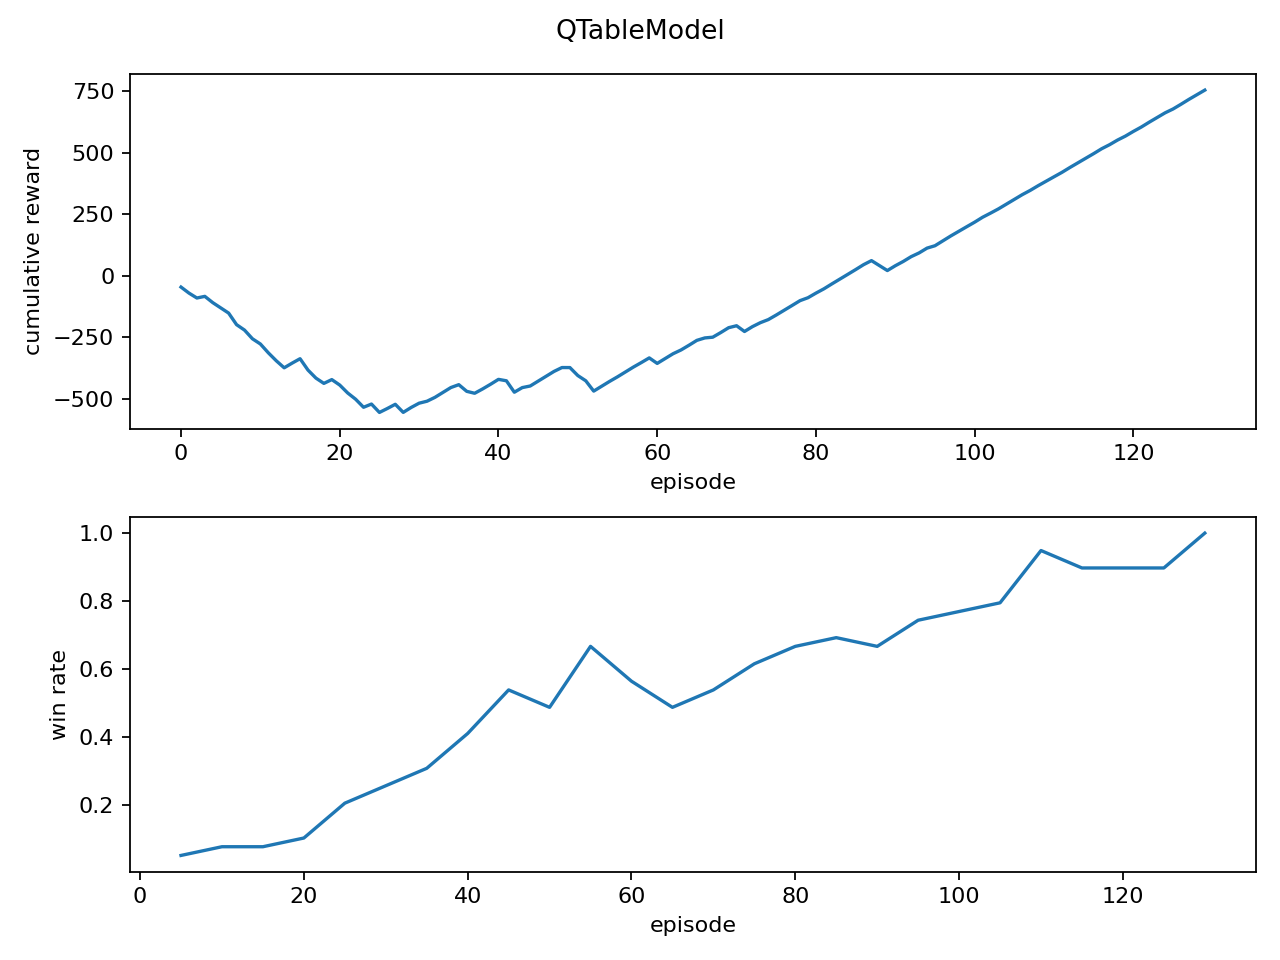
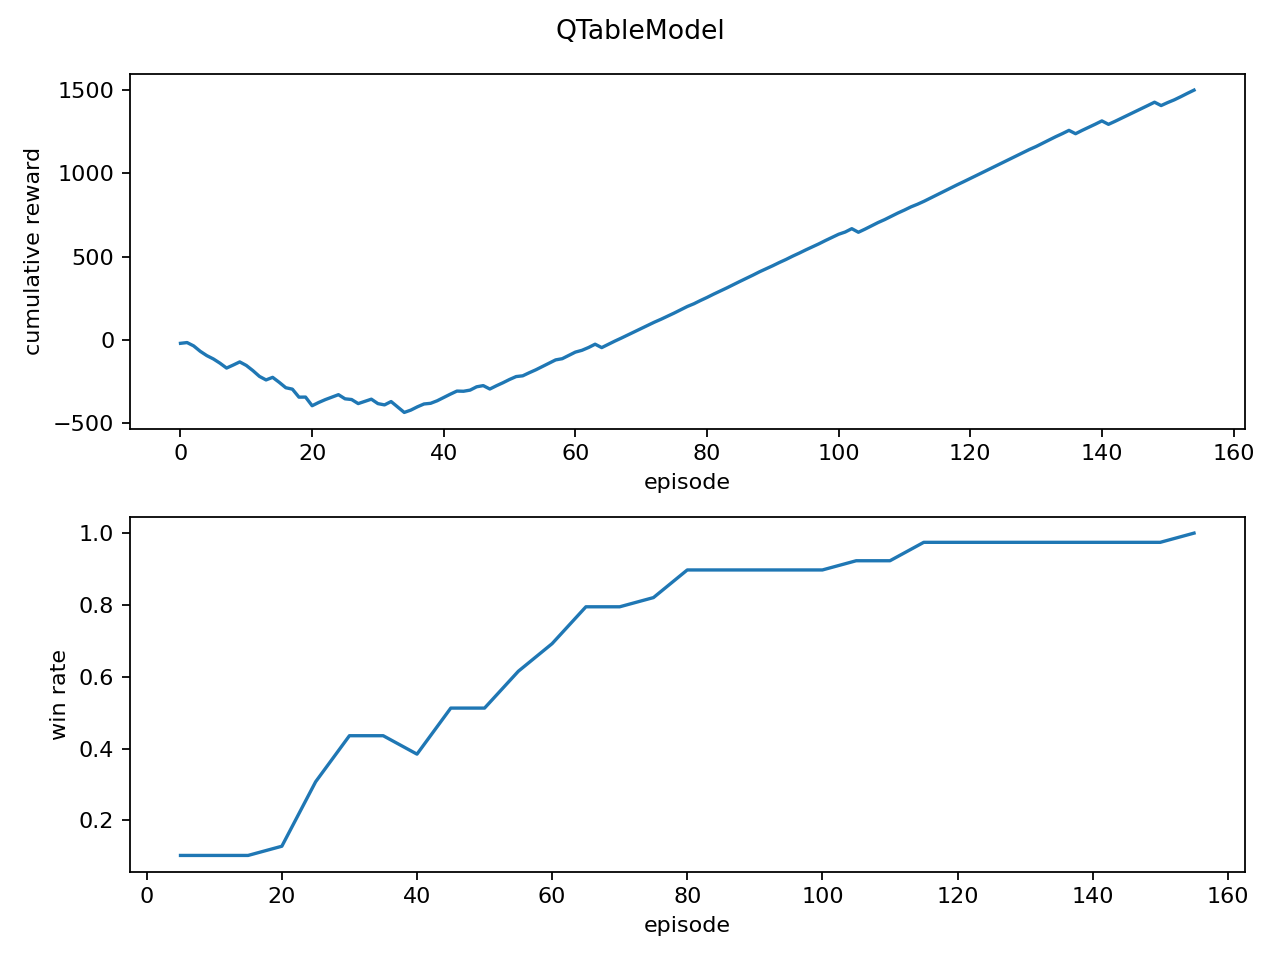
training1

diff --git a/Reinforcement-Learning-Maze-master/train_dqn_maze.py b/Reinforcement-Learning-Maze-master/train_dqn_maze.py
@@ -1,0 +1,362 @@
+"""Train a DQN agent on the trap maze environment."""
+
+from __future__ import annotations
+
+import argparse
+import logging
+import random
+from collections import deque
+from dataclasses import dataclass
+from datetime import datetime
+from pathlib import Path
+
+import numpy as np
+import torch
+from torch import nn
+from torch.nn import functional as F
+
+from environment.maze import Maze, Render, Status
+from train_maze import MAZE_LAYOUT, save_bestmove_plot, save_training_plot
+
+
+@dataclass
+class Transition:
+    state: np.ndarray
+    action: int
+    reward: float
+    next_state: np.ndarray
+    done: bool
+
+
+class ReplayBuffer:
+    def __init__(self, capacity: int) -> None:
+        self.buffer: deque[Transition] = deque(maxlen=capacity)
+
+    def push(self, transition: Transition) -> None:
+        self.buffer.append(transition)
+
+    def sample(self, batch_size: int) -> tuple[torch.Tensor, ...]:
+        batch = random.sample(self.buffer, batch_size)
+        states = torch.as_tensor(np.stack([t.state for t in batch]), dtype=torch.float32)
+        actions = torch.as_tensor([t.action for t in batch], dtype=torch.long).unsqueeze(1)
+        rewards = torch.as_tensor([t.reward for t in batch], dtype=torch.float32).unsqueeze(1)
+        next_states = torch.as_tensor(
+            np.stack([t.next_state for t in batch]),
+            dtype=torch.float32,
+        )
+        dones = torch.as_tensor([t.done for t in batch], dtype=torch.float32).unsqueeze(1)
+        return states, actions, rewards, next_states, dones
+
+    def __len__(self) -> int:
+        return len(self.buffer)
+
+
+class QNetwork(nn.Module):
+    def __init__(self, state_dim: int, action_dim: int) -> None:
+        super().__init__()
+        self.layers = nn.Sequential(
+            nn.Linear(state_dim, 128),
+            nn.ReLU(),
+            nn.Linear(128, 128),
+            nn.ReLU(),
+            nn.Linear(128, action_dim),
+        )
+
+    def forward(self, x: torch.Tensor) -> torch.Tensor:
+        return self.layers(x)
+
+
+class DQNAgent:
+    name = "DQNModel"
+
+    def __init__(self, game: Maze, network: QNetwork) -> None:
+        self.environment = game
+        self.network = network
+        self.nrows, self.ncols = game.maze.shape
+        self.state_dim = self.nrows * self.ncols
+
+    def encode_state(self, state) -> np.ndarray:
+        if isinstance(state, tuple):
+            col, row = state
+        else:
+            col, row = np.asarray(state).flatten()
+        encoded = np.zeros(self.state_dim, dtype=np.float32)
+        encoded[int(row) * self.ncols + int(col)] = 1.0
+        return encoded
+
+    def valid_actions(self, state) -> list[int]:
+        if isinstance(state, tuple):
+            col, row = state
+        else:
+            col, row = np.asarray(state).flatten()
+        col = int(col)
+        row = int(row)
+
+        actions = []
+        candidates = (
+            (0, col - 1, row),
+            (1, col + 1, row),
+            (2, col, row - 1),
+            (3, col, row + 1),
+        )
+        for action, next_col, next_row in candidates:
+            if (
+                0 <= next_col < self.ncols
+                and 0 <= next_row < self.nrows
+                and self.environment.maze[next_row, next_col] != 1
+            ):
+                actions.append(action)
+        return actions
+
+    def state_from_encoded(self, encoded: np.ndarray) -> tuple[int, int]:
+        index = int(np.argmax(encoded))
+        return index % self.ncols, index // self.ncols
+
+    def q(self, state) -> np.ndarray:
+        self.network.eval()
+        with torch.no_grad():
+            tensor = torch.as_tensor(self.encode_state(state), dtype=torch.float32).unsqueeze(0)
+            q_values = self.network(tensor).squeeze(0).numpy()
+        masked = np.full_like(q_values, -1e6)
+        valid_actions = self.valid_actions(state)
+        masked[valid_actions] = q_values[valid_actions]
+        return masked
+
+    def predict(self, state) -> int:
+        q_values = self.q(state)
+        actions = np.nonzero(q_values == np.max(q_values))[0]
+        return int(random.choice(actions))
+
+
+def parse_args() -> argparse.Namespace:
+    parser = argparse.ArgumentParser()
+    parser.add_argument("--episodes", type=int, default=500)
+    parser.add_argument("--batch-size", type=int, default=64)
+    parser.add_argument("--buffer-size", type=int, default=10_000)
+    parser.add_argument("--learning-starts", type=int, default=256)
+    parser.add_argument("--gamma", type=float, default=0.95)
+    parser.add_argument("--lr", type=float, default=1e-3)
+    parser.add_argument("--epsilon-start", type=float, default=1.0)
+    parser.add_argument("--epsilon-end", type=float, default=0.05)
+    parser.add_argument("--epsilon-decay", type=float, default=0.992)
+    parser.add_argument("--target-update", type=int, default=50)
+    parser.add_argument("--check-every", type=int, default=5)
+    parser.add_argument("--seed", type=int, default=7)
+    parser.add_argument("--stop-at-convergence", action="store_true")
+    parser.add_argument(
+        "--render",
+        choices=("nothing", "moves", "training"),
+        default="nothing",
+    )
+    parser.add_argument(
+        "--play-start",
+        type=int,
+        nargs=2,
+        metavar=("COL", "ROW"),
+        default=(4, 1),
+    )
+    parser.add_argument("--save-plot", type=Path, default=None)
+    parser.add_argument("--save-bestmove", type=Path, default=None)
+    parser.add_argument("--save-model", type=Path, default=None)
+    return parser.parse_args()
+
+
+def render_mode(name: str) -> Render:
+    return {
+        "nothing": Render.NOTHING,
+        "moves": Render.MOVES,
+        "training": Render.TRAINING,
+    }[name]
+
+
+def optimize(
+    q_net: QNetwork,
+    target_net: QNetwork,
+    replay: ReplayBuffer,
+    optimizer: torch.optim.Optimizer,
+    batch_size: int,
+    gamma: float,
+    agent: DQNAgent,
+) -> float:
+    states, actions, rewards, next_states, dones = replay.sample(batch_size)
+    q_values = q_net(states).gather(1, actions)
+    with torch.no_grad():
+        next_q_values = target_net(next_states)
+        next_mask = torch.zeros_like(next_q_values, dtype=torch.bool)
+        for row_idx, encoded in enumerate(next_states.numpy()):
+            cell = agent.state_from_encoded(encoded)
+            next_mask[row_idx, agent.valid_actions(cell)] = True
+        next_q_values = next_q_values.masked_fill(~next_mask, -1e6)
+        next_q = next_q_values.max(dim=1, keepdim=True).values
+        targets = rewards + gamma * (1.0 - dones) * next_q
+
+    loss = F.smooth_l1_loss(q_values, targets)
+    optimizer.zero_grad()
+    loss.backward()
+    nn.utils.clip_grad_norm_(q_net.parameters(), max_norm=10.0)
+    optimizer.step()
+    return float(loss.item())
+
+
+def train(args: argparse.Namespace):
+    random.seed(args.seed)
+    np.random.seed(args.seed)
+    torch.manual_seed(args.seed)
+
+    game = Maze(MAZE_LAYOUT)
+    game.render(render_mode(args.render))
+
+    state_dim = game.maze.size
+    action_dim = len(game.actions)
+    q_net = QNetwork(state_dim, action_dim)
+    target_net = QNetwork(state_dim, action_dim)
+    target_net.load_state_dict(q_net.state_dict())
+    optimizer = torch.optim.Adam(q_net.parameters(), lr=args.lr)
+    replay = ReplayBuffer(args.buffer_size)
+    agent = DQNAgent(game, q_net)
+
+    epsilon = args.epsilon_start
+    cumulative_reward = 0.0
+    reward_history: list[float] = []
+    win_history: list[tuple[int, float]] = []
+    best_win_rate = 0.0
+    best_state = q_net.state_dict()
+    start_list: list[tuple[int, int]] = []
+    start_time = datetime.now()
+
+    for episode in range(1, args.episodes + 1):
+        if not start_list:
+            start_list = game.empty.copy()
+        start_cell = random.choice(start_list)
+        start_list.remove(start_cell)
+
+        raw_state = game.reset(start_cell)
+        state = agent.encode_state(raw_state)
+        episode_reward = 0.0
+        losses: list[float] = []
+
+        while True:
+            if random.random() < epsilon:
+                action = int(random.choice(agent.valid_actions(raw_state)))
+            else:
+                action = agent.predict(raw_state)
+
+            next_raw_state, reward, status = game.step(action)
+            next_state = agent.encode_state(next_raw_state)
+            done = status in (Status.WIN, Status.LOSE)
+            replay.push(
+                Transition(
+                    state=state,
+                    action=action,
+                    reward=reward,
+                    next_state=next_state,
+                    done=done,
+                )
+            )
+
+            cumulative_reward += reward
+            episode_reward += reward
+
+            if len(replay) >= max(args.batch_size, args.learning_starts):
+                losses.append(
+                    optimize(
+                        q_net,
+                        target_net,
+                        replay,
+                        optimizer,
+                        args.batch_size,
+                        args.gamma,
+                        agent,
+                    )
+                )
+
+            if done:
+                break
+
+            raw_state = next_raw_state
+            state = next_state
+            if args.render == "training":
+                game.render_q(agent)
+
+        reward_history.append(cumulative_reward)
+        epsilon = max(args.epsilon_end, epsilon * args.epsilon_decay)
+
+        if episode % args.target_update == 0:
+            target_net.load_state_dict(q_net.state_dict())
+
+        mean_loss = float(np.mean(losses)) if losses else 0.0
+        logging.info(
+            "episode: %d/%d | status: %-4s | return: %.2f | loss: %.4f | e: %.5f",
+            episode,
+            args.episodes,
+            status.name,
+            episode_reward,
+            mean_loss,
+            epsilon,
+        )
+
+        if episode % args.check_every == 0:
+            won_all, win_rate = game.check_win_all(agent)
+            win_history.append((episode, win_rate))
+            if win_rate >= best_win_rate:
+                best_win_rate = win_rate
+                best_state = {
+                    key: value.detach().cpu().clone()
+                    for key, value in q_net.state_dict().items()
+                }
+            if won_all and args.stop_at_convergence:
+                logging.info("won from all start cells, stop learning")
+                break
+
+    q_net.load_state_dict(best_state)
+    target_net.load_state_dict(best_state)
+    elapsed = datetime.now() - start_time
+    logging.info("episodes: %d | time spent: %s", episode, elapsed)
+    return game, agent, reward_history, win_history, episode, elapsed, best_win_rate
+
+
+def save_dqn_model(path: Path, agent: DQNAgent, args: argparse.Namespace, best_win_rate: float) -> None:
+    path.parent.mkdir(parents=True, exist_ok=True)
+    torch.save(
+        {
+            "model_state": agent.network.state_dict(),
+            "maze_layout": MAZE_LAYOUT,
+            "state_dim": agent.state_dim,
+            "action_dim": len(agent.environment.actions),
+            "best_win_rate": best_win_rate,
+            "config": vars(args),
+        },
+        path,
+    )
+    print(f"Saved trained DQN model to {path}")
+
+
+def main() -> None:
+    args = parse_args()
+    if args.render == "nothing":
+        import matplotlib
+
+        matplotlib.use("Agg")
+
+    logging.basicConfig(
+        format="%(levelname)-8s: %(asctime)s: %(message)s",
+        datefmt="%Y-%m-%d %H:%M:%S",
+        level=logging.INFO,
+    )
+
+    game, agent, reward_history, win_history, episodes, elapsed, best_win_rate = train(args)
+    print(f"Trained {episodes} episodes in {elapsed}; best win rate={best_win_rate:.5f}")
+
+    status = game.play(agent, start_cell=tuple(args.play_start))
+    print(f"Final play from {tuple(args.play_start)}: {status.name}")
+
+    if args.save_plot is not None:
+        save_training_plot(args.save_plot, agent.name, reward_history, win_history)
+    if args.save_bestmove is not None:
+        save_bestmove_plot(args.save_bestmove, agent, MAZE_LAYOUT)
+    if args.save_model is not None:
+        save_dqn_model(args.save_model, agent, args, best_win_rate)
+
+
+if __name__ == "__main__":
+    main()